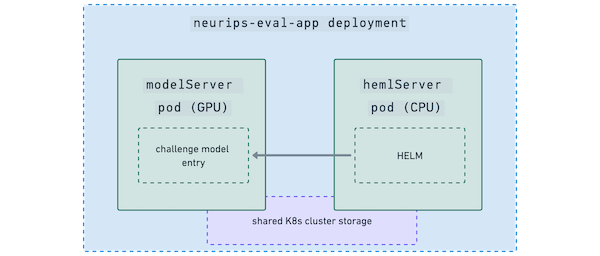
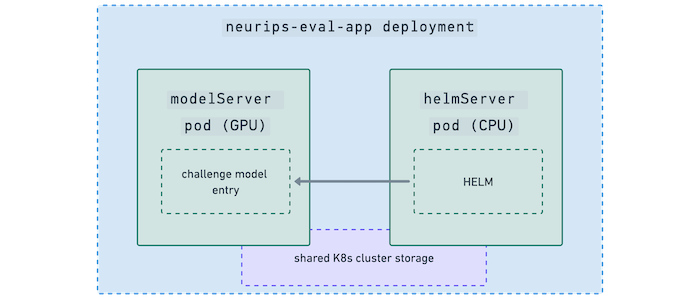
fix typos and image size

diff --git a/README.md b/README.md
@@ -1,4 +1,4 @@
-# Neurips Model Server and HELM Eval Server
+# NeurIPS Model Server and HELM Eval Server
 
 > [!NOTE]
 >
@@ -30,7 +30,7 @@ If you're building locally on MacOS with `arm`, make sure to specify the platfor
 
 2. Push to the registry 
 
-`docker push{docker-registry}/helm-server:1`
+`docker push {docker-registry}/helm-server:1`
 
 ### Model Image
 
@@ -50,7 +50,7 @@ Save all checkpoints and artifacts to shared storage.
 
 2. Test that the model container works by hitting the endpoints locally: `curl -X POST -H "Content-Type: application/json" -d '{"prompt": "The capital of france is "}' http://{model_container_ip}:8080/process`
 
-3. The two containers should see each other through the internal IP network on the Pod via port 8080. 
+3. The two containers should see each other through the internal IP network on the Pod via port `8080`. 
 
 4. To run the eval server, run the sample script from the eval server. Specify `nohup` or use `screen` or `tmux` if you'd like to run without interruptions. 
 
